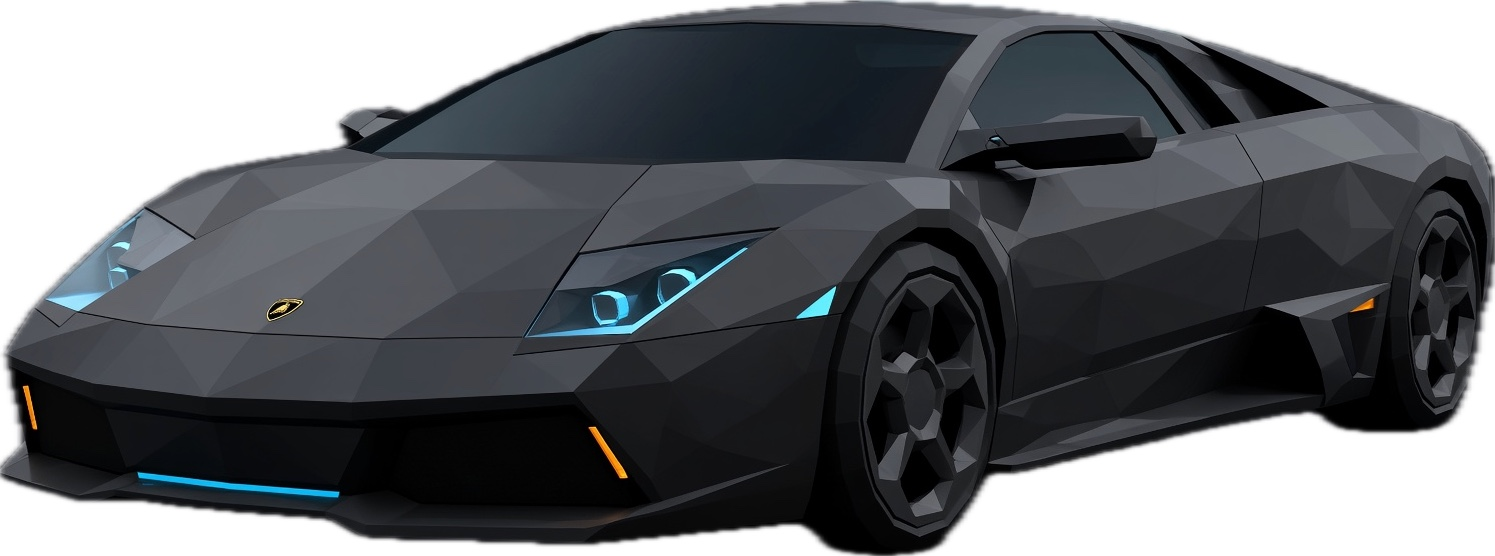
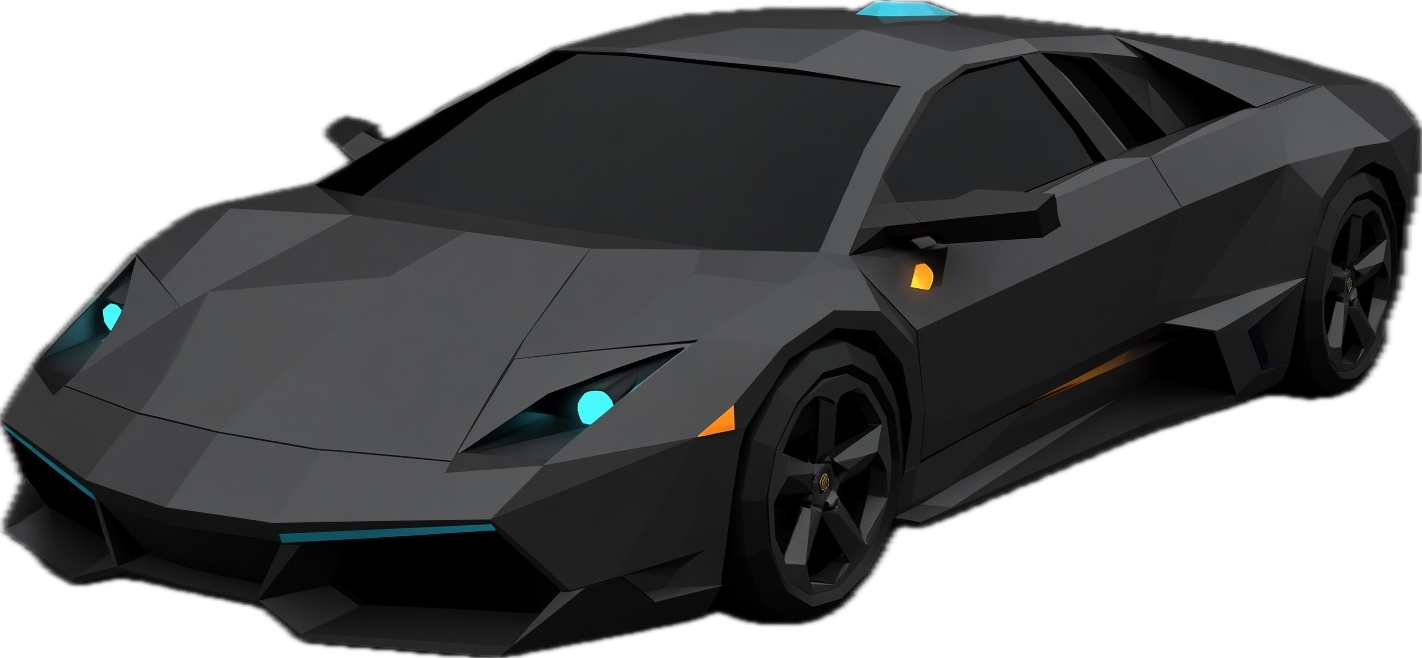
Replace default car reference; note three.js stack
Claude-Session: https://claude.ai/code/session_01EgLKZkvHCFM6U3dgrmqFxY

diff --git a/docs/context/README.md b/docs/context/README.md
@@ -18,8 +18,8 @@ The default car sets the rendering style; images 01–04 set mood, not fidelity.
 
 - Low-poly, flat-shaded faceted surfaces — no smooth normals on body panels.
 - Body: matte graphite/charcoal wedge supercar, facet contrast does the shading work. Dark tinted glass.
-- Emissives: cyan headlight clusters and fender-vent accents, cyan lower front-lip strip; vertical amber markers in the front bumper and side sills.
-- Wheels: dark faceted multi-spoke, no rim accent.
+- Emissives: round cyan headlight points, cyan lower front-lip strip, cyan roof-mounted light; amber markers on the front fenders and mirror bases, amber glow along the side sills.
+- Wheels: dark faceted five-spoke, no rim accent.
 - Environment (not shown in 05; extrapolated): blocky low-poly skyline, warm amber window lights, sparse cyan signage, faceted dark ground.
 - Palette anchors: graphite body, cyan `~#5fe0f0` emissive, amber `~#ffb040` markers, near-black navy sky.
-- The manufacturer badge on the nose must not appear on the in-game model.
+- No manufacturer badges anywhere on the in-game model (including wheel center caps).

diff --git a/README.md b/README.md
@@ -1,1 +1,5 @@
 # speed-swimmers
+
+Night street racing game built with [three.js](https://threejs.org/).
+
+Visual references and art direction: [`docs/context/`](docs/context/).
